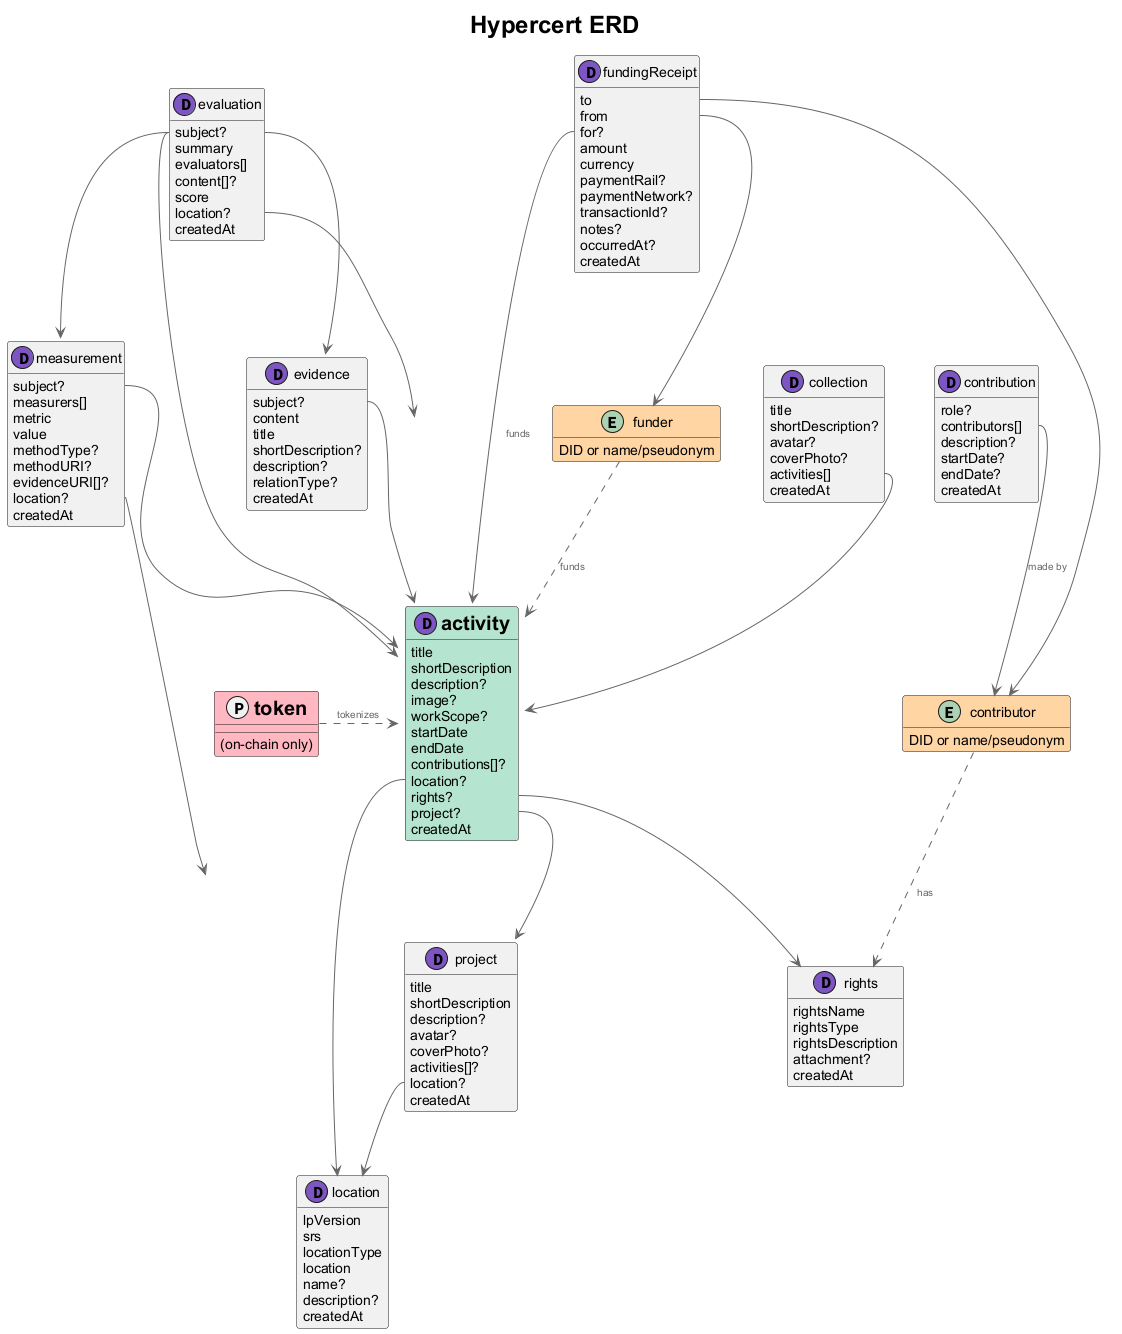
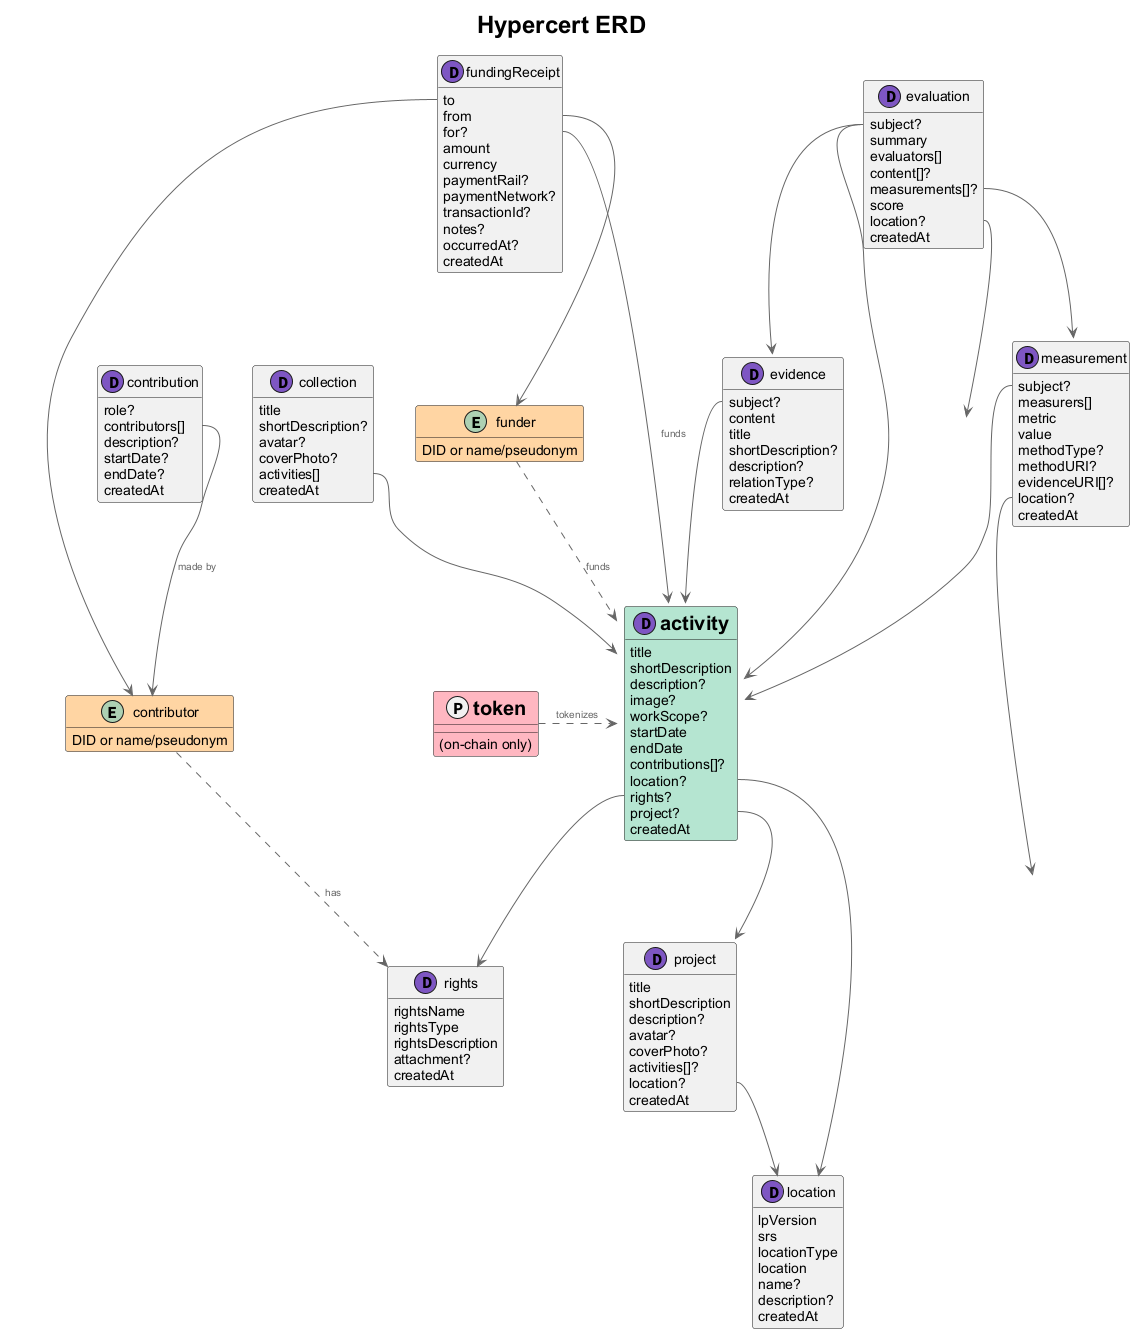
add measurements to org.hypercerts.evaluation

diff --git a/README.md b/README.md
@@ -183,15 +183,16 @@ Hypercerts-specific lexicons for tracking impact work and claims.
 
 #### Properties
 
-| Property     | Type     | Required | Description                                                                | Comments                                            |
-| ------------ | -------- | -------- | -------------------------------------------------------------------------- | --------------------------------------------------- |
-| `subject`    | `ref`    | ❌       | A strong reference to what is being evaluated                              | (e.g activity, measurement, contribution, etc.)     |
-| `evaluators` | `array`  | ✅       | DIDs of the evaluators                                                     |                                                     |
-| `content`    | `array`  | ❌       | Evaluation data (URIs or blobs) containing detailed reports or methodology |                                                     |
-| `summary`    | `string` | ✅       | Brief evaluation summary                                                   |                                                     |
-| `score`      | `object` | ❌       | Optional overall score for this evaluation on a numeric scale              | Object with `min`, `max`, and `value` (integers)    |
-| `location`   | `ref`    | ❌       | An optional reference for georeferenced evaluations                        | References must conform to `app.certified.location` |
-| `createdAt`  | `string` | ✅       | Client-declared timestamp when this record was originally created          |                                                     |
+| Property       | Type     | Required | Description                                                                 | Comments                                                      |
+| -------------- | -------- | -------- | --------------------------------------------------------------------------- | ------------------------------------------------------------- |
+| `subject`      | `ref`    | ❌       | A strong reference to what is being evaluated                               | (e.g activity, measurement, contribution, etc.)               |
+| `evaluators`   | `array`  | ✅       | DIDs of the evaluators                                                      |                                                               |
+| `content`      | `array`  | ❌       | Evaluation data (URIs or blobs) containing detailed reports or methodology  |                                                               |
+| `measurements` | `array`  | ❌       | Optional references to the measurements that contributed to this evaluation | References must conform to `org.hypercerts.claim.measurement` |
+| `summary`      | `string` | ✅       | Brief evaluation summary                                                    |                                                               |
+| `score`        | `object` | ❌       | Optional overall score for this evaluation on a numeric scale               | Object with `min`, `max`, and `value` (integers)              |
+| `location`     | `ref`    | ❌       | An optional reference for georeferenced evaluations                         | References must conform to `app.certified.location`           |
+| `createdAt`    | `string` | ✅       | Client-declared timestamp when this record was originally created           |                                                               |
 
 ---
 
